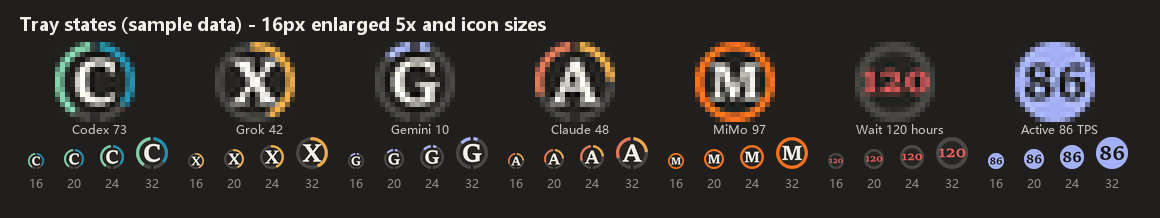
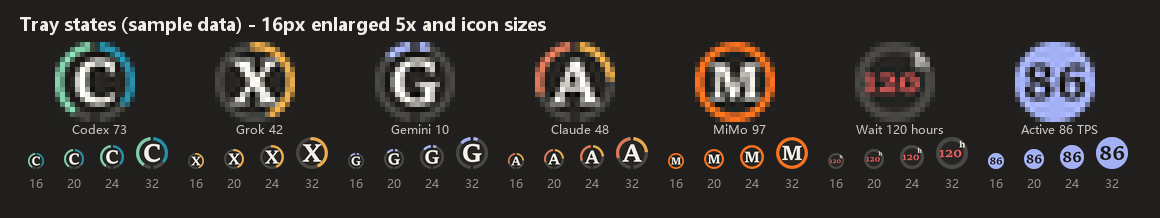
Label quota reset countdown units

Changed region(s): [[0.7448, 0.2477, 0.8069, 0.4404], [0.7138, 0.6606, 0.8379, 0.7431]]

diff --git a/test_split_ring.py b/test_split_ring.py
@@ -47,7 +47,13 @@ class SplitRingTests(unittest.TestCase):
         self.assertIsNone(tray_app.usable_again_at(snapshot(remaining=0,second=0,reset=now+3600,second_reset=None),now))
         with patch.object(tray_app, 'waiting_icon', return_value='waiting') as icon:
             self.assertEqual(tray_app.make_provider_icon(snapshot(reset=now+3601),'C',now=now),'waiting')
-            icon.assert_called_once_with(2,'C',False)
+            icon.assert_called_once_with(2,'C',False,False,'h')
+
+    def test_countdown_units_round_up_at_boundaries(self):
+        for seconds, expected in ((1,(1,'m')), (60,(1,'m')), (61,(2,'m')),
+                                  (3599,(60,'m')), (3600,(1,'h')), (3601,(2,'h')),
+                                  (86399,(24,'h')), (86400,(1,'d')), (86401,(2,'d'))):
+            self.assertEqual(tray_app.countdown_value(seconds),expected)
 
     def test_five_percent_remaining_is_treated_as_exhausted_without_changing_data(self):
         now = 1000000
@@ -56,19 +62,21 @@ class SplitRingTests(unittest.TestCase):
             self.assertEqual(tray_app.usable_again_at(value, now), now+3601)
             with patch.object(tray_app, 'waiting_icon', return_value='waiting') as icon:
                 self.assertEqual(tray_app.make_provider_icon(value, 'A', now=now), 'waiting')
-                icon.assert_called_once_with(2, 'A', False)
+                icon.assert_called_once_with(2, 'A', False, False, 'h')
             self.assertEqual(value.remaining_percent, remaining)
         self.assertIsNone(tray_app.usable_again_at(snapshot('claude', remaining=5.01, reset=now+3601), now))
 
-    def test_stale_countdown_keeps_stale_badge_and_live_tps_takes_priority(self):
+    def test_stale_countdown_and_live_tps_priority(self):
         now = time.time()
         value = snapshot('claude', remaining=1, reset=now+3601)
         value.stale = True
         with patch.object(tray_app, 'waiting_icon', return_value='waiting') as icon:
             self.assertEqual(tray_app.make_provider_icon(value, 'A', now=now), 'waiting')
-            icon.assert_called_once_with(2, 'A', False, True)
+            icon.assert_called_once_with(2, 'A', False, True, 'h')
         with patch.object(tray_app, 'make_tps_icon', return_value='live'):
             self.assertEqual(tray_app.make_display_icon(value, 'A', {'active_sessions':1, 'display_tps':12}), 'live')
+        self.assertEqual(icon_art.waiting_icon(2, 'A', stale=True, unit='h').tobytes(),
+                         icon_art.waiting_icon(2, 'A', stale=False, unit='h').tobytes())
 
     def test_gemini_recovers_when_any_exhausted_pool_resets(self):
         now = 1000000
@@ -110,6 +118,8 @@ class SplitRingTests(unittest.TestCase):
         waiting = icon_art.waiting_icon(120,'C')
         live = icon_art.live_icon(120,'C')
         self.assertEqual(waiting.getpixel((32, 2)), icon_art.TRACK)
+        self.assertNotEqual(icon_art.waiting_icon(2, 'C', unit='d').tobytes(),
+                            icon_art.waiting_icon(2, 'C', unit='h').tobytes())
         for size in (16,20,24,32):
             a = waiting.resize((size,size),Image.Resampling.LANCZOS)
             b = live.resize((size,size),Image.Resampling.LANCZOS)

diff --git a/icon_art.py b/icon_art.py
@@ -295,8 +295,8 @@ def ring_icon(values: tuple, letter: str, stale: bool = False, marker: float | N
 
 
 @lru_cache(maxsize=64)
-def waiting_icon(hours: int, letter: str, reset_hint: bool = False, stale: bool = False) -> Image.Image:
-    """Old-style dark disc and empty source-coloured ring, with red reset hours."""
+def waiting_icon(amount: int, letter: str, reset_hint: bool = False, stale: bool = False, unit: str = "h") -> Image.Image:
+    """Old-style empty ring with a red countdown and its unit."""
     canvas = Image.new("RGBA", (CANVAS, CANVAS), (0, 0, 0, 0))
     draw = ImageDraw.Draw(canvas)
     draw.ellipse(DISC, fill=INK)
@@ -304,12 +304,13 @@ def waiting_icon(hours: int, letter: str, reset_hint: bool = False, stale: bool 
     # slightly thicker stroke remains visible at 16-pixel tray size.  Use the
     # original empty-ring track rather than a full provider-coloured arc.
     draw.ellipse(DISC, outline=TRACK, width=34)
-    text = str(max(1, int(hours)))
+    text = str(max(1, int(amount)))
     wide = len(text) >= 3
-    face = _fit(text, number_font, 230 if wide else 212, 132 if wide else 176, 220, draw)
-    _centered_text(draw, text, face, (0, 0, CANVAS, CANVAS), CLAY)
-    if stale:
-        _stale_badge(canvas)
+    face = _fit(text, number_font, 190 if wide else 180, 132 if wide else 158, 200, draw)
+    _centered_text(draw, text, face, (0, 10, 228, CANVAS), CLAY)
     if reset_hint:
         _reset_badge(canvas)
+    unit = unit if unit in ("d", "h", "m") else "h"
+    unit_face = _fit(unit, number_font, 54, 56, 74, draw)
+    _centered_text(draw, unit, unit_face, (178, 26, 242, 88), IVORY)
     return _finish(canvas)

diff --git a/tray_app.py b/tray_app.py
@@ -5,6 +5,7 @@ import itertools
 import json
 import logging
 import logging.handlers
+import math
 import os
 import subprocess
 import sys
@@ -104,6 +105,15 @@ def quota_exhausted(value: float | None) -> bool:
     return value is not None and value <= EXHAUSTED_REMAINING
 
 
+def countdown_value(seconds: float) -> tuple[int, str]:
+    """A compact time unit, rounded up so it never suggests an early reset."""
+    if seconds >= 86400:
+        return math.ceil(seconds / 86400), "d"
+    if seconds >= 3600:
+        return math.ceil(seconds / 3600), "h"
+    return max(1, math.ceil(seconds / 60)), "m"
+
+
 def usable_again_at(snapshot: QuotaSnapshot, now: float) -> float | None:
     """When a used-up source can run again: the last reset among its empty
     windows (all must recover), or the first pool to come back for model
@@ -127,10 +137,8 @@ def make_provider_icon(snapshot: QuotaSnapshot, letter: str, reset_hint: bool = 
     now = now or time.time()
     until = usable_again_at(snapshot, now)
     if until is not None:
-        hours = int(-(-(until - now) // 3600))
-        if snapshot.stale:
-            return waiting_icon(hours, letter, bool(reset_hint), True)
-        return waiting_icon(hours, letter, bool(reset_hint))
+        amount, unit = countdown_value(until - now)
+        return waiting_icon(amount, letter, bool(reset_hint), bool(snapshot.stale), unit)
     values, colors = icon_windows(snapshot, letter)
     return ring_icon(tuple(_rounded(value) for value in values), letter, bool(snapshot.stale),
                      _rounded(pace_marker(snapshot)), bool(reset_hint), colors)

diff --git a/README.md b/README.md
@@ -10,7 +10,7 @@ A Windows system-tray monitor for local AI quota and token-usage signals, with g
 
 - **独立来源图标**：默认显示 Codex、Grok、Gemini，Claude Code 为可选来源。
 - **额度圆环**：沿用深色圆盘和来源字母。有两个窗口时外圈分为左右两段，左侧为短窗口、右侧为长窗口；Gemini 显示剩余最少的两个模型池，按面板顺序排列。单窗口仍为完整圆环；生成时显示 TPS 数字。
-- **接近用尽与重置**：剩余不超过 5% 时按耗尽处理；已知重置时间时托盘显示红色小时倒计时，有实际生成速率时优先显示 TPS。面板保留真实百分比并标注接近用尽；旧数据的倒计时带提示点。多个独立模型池仅在全部已知池均达到阈值时显示等待时间。
+- **接近用尽与重置**：剩余不超过 5% 时按耗尽处理；已知重置时间时托盘显示红色倒计时，右上角 `d`、`h`、`m` 分别表示天、小时、分钟，有实际生成速率时优先显示 TPS。面板保留真实百分比并标注接近用尽，旧数据会在面板中提示。多个独立模型池仅在全部已知池均达到阈值时显示等待时间。
 - **生成速率显示**：取得可核验样本且来源处于活动状态时，圆盘点亮并显示最近样本；缺少样本时继续显示额度。
 - **Agent 任务气泡**：悬停任一额度图标都会打开任务面板（没有任务时也显示）：顶部保留各额度窗口与 TPS，每列标题直接写距下次重置的时间（如 4小时32分钟、3天7小时、323天；尚未开始计时的窗口仍写窗口名），下方每个气泡是一项任务及其当前动作；把气泡拖到一起即告诉程序它们是同一任务的并行部分，合并为大气泡并重新识别。
 - **按需刷新**：根据空闲、活动、生成结束、读取失败和重置时间调度额度查询。
